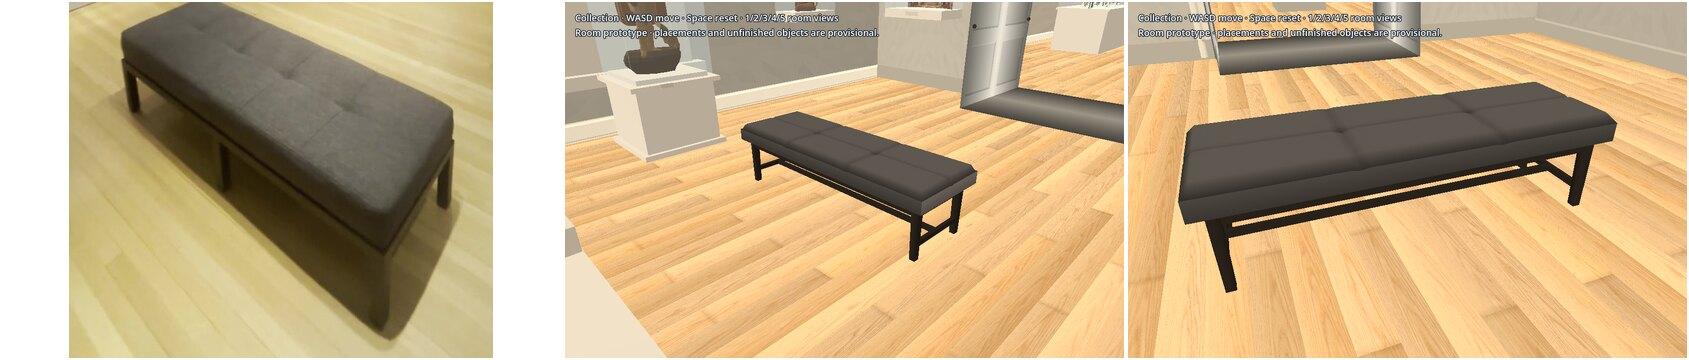
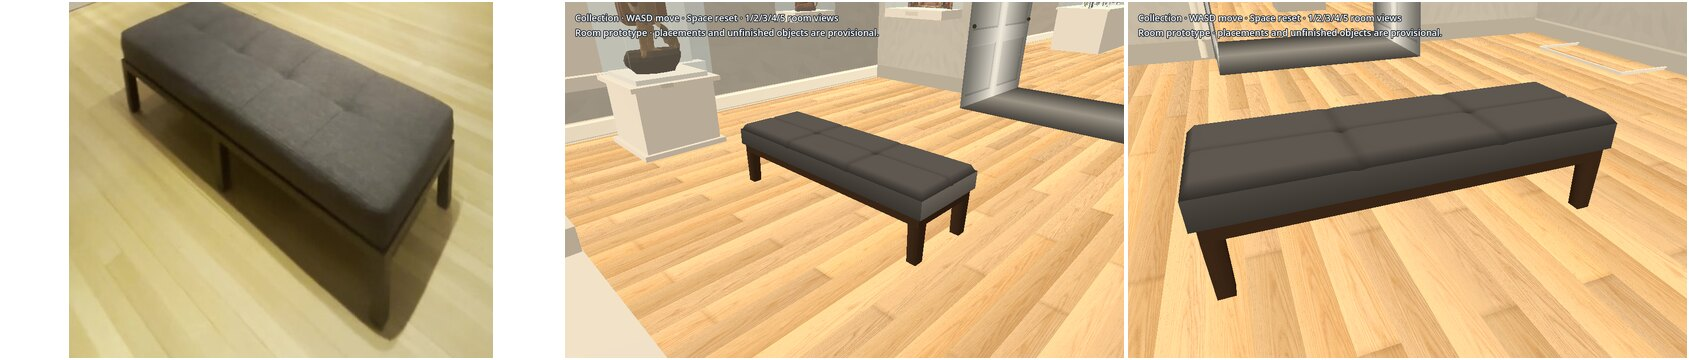
Bench: a cushion a third of its height on a dark brown rail and stout square legs (#261)
Against IMG_6383 62.5s: the seat was a thin pad on thin black legs. Its top stays where it was;
the height comes out of the legs.

diff --git a/docs/evidence/furniture-261/NOTES.md b/docs/evidence/furniture-261/NOTES.md
@@ -4,10 +4,11 @@ Each picture: the footage frame on the left, the piece unbaked in the draft room
 it. Unbaked means the draft's own flat light; the baked look is judged from the integration build.
 
 1. `1-bench-footage-and-unbaked.jpg`: the central bench. Footage IMG_6383 62.5 s: a grey tufted
-   seat on a dark frame. Before: a black slab on four square posts. Now `bench()` in the room
-   generator: one upholstered surface with a rounded rim and stitched tufts (3 by 2, as filmed), on four
-   slightly tapered legs with an apron and a low stretcher. Its length, width and place are unchanged
-   (1.65 x 0.55 m, by eye from the earlier build; not measured).
+   seat on a dark wooden frame. Before: a black slab on four square posts. Now `bench()` in the
+   room generator: one upholstered surface a third of the bench's height, with a rounded rim, its
+   fabric side showing and stitched tufts (3 by 2, as filmed), on a dark brown base rail carried
+   by four stout square legs. Its length, width and place are unchanged (1.65 x 0.55 m, by eye
+   from the earlier build; not measured).
 2. `2-wall-case-footage-and-unbaked.jpg`: Renaissance east wall case A. Footage IMG_6383 44.0 s:
    a white body with a recessed lower step, a sloped label rail inside a clear hood whose
    polished edges read as bright lines. Before: a thin slab under a glass box with four black
